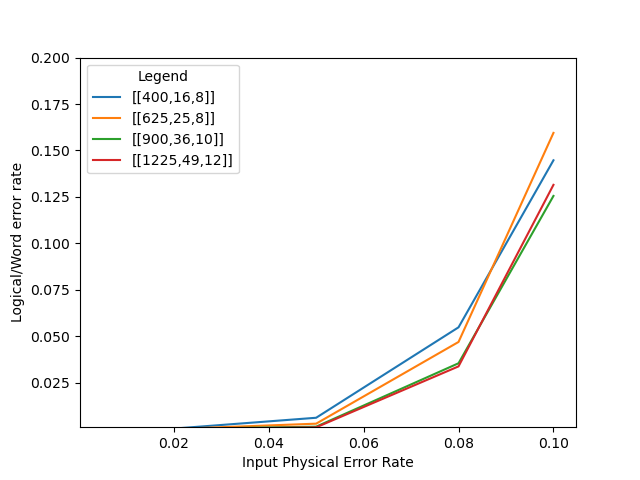
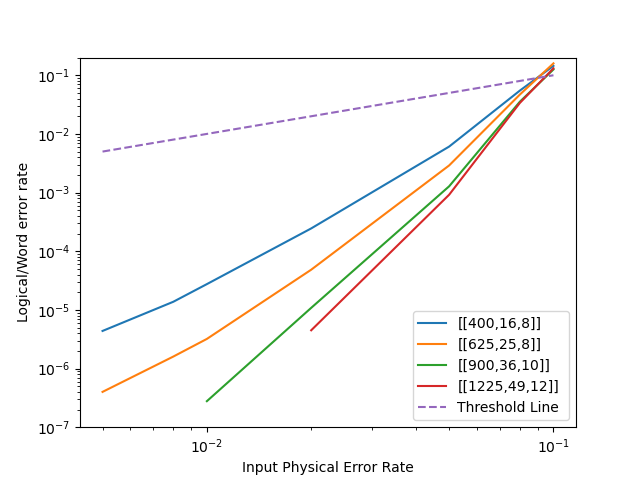
Corrected Plotter

diff --git a/plotter.py b/plotter.py
@@ -43,13 +43,29 @@ for n_qbits in M:
         d = 12    
         
     name = "[["+str(N)+","+str(k)+","+str(d)+"]]"
-    plt.plot(error,error_f,label=name)
+    error_eff = error.copy()
+    error_eff_out = error_f.copy()
+    if n_qbits==24:
+        error_eff = error_eff[2:]
+        error_eff_out = error_eff_out[2:]
+    if n_qbits==28:
+        error_eff = error_eff[3:]
+        error_eff_out = error_eff_out[3:]
+
+    #print("printing ",error_eff)    
+    plt.plot(error_eff,error_eff_out,label=name)
+plt.plot(error,error,label ='Threshold Line ',linestyle='dashed')    
+# distance 10 ad 12 need help
 plt.xlabel('Input Physical Error Rate')
 plt.ylabel('Logical/Word error rate')
-plt.ylim(1e-3,0.2)
-plt.legend(loc='upper right')  # Specify the location of the legend (e.g., upper right corner)
+plt.ylim(1e-7,0.2)
+
 plt.legend(fontsize='large')   # Set the font size of the legend
 plt.legend(title='Legend')
+plt.yscale('log')
+plt.xscale('log')
+plt.legend(loc='lower right')  
 plt.savefig("FinalResults.png")
+plt.title("Hypergraph Product Codes Plot")
 plt.show()    
 
